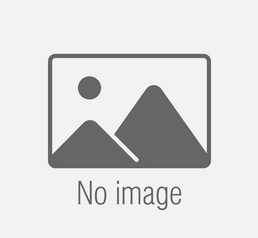
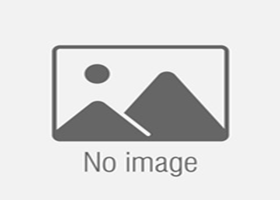
Resized default image

diff --git a/src/utils/api.js b/src/utils/api.js
@@ -21,7 +21,7 @@ const getImage = async (searchTitle) => {
         }
     );
     console.log("Photos response: ", response);
-    const theURL = defaultImage;
+    let theURL = defaultImage;
     if(response.data.photos.length >= 1){
         theURL = response.data.photos[0].src.tiny;
     }
